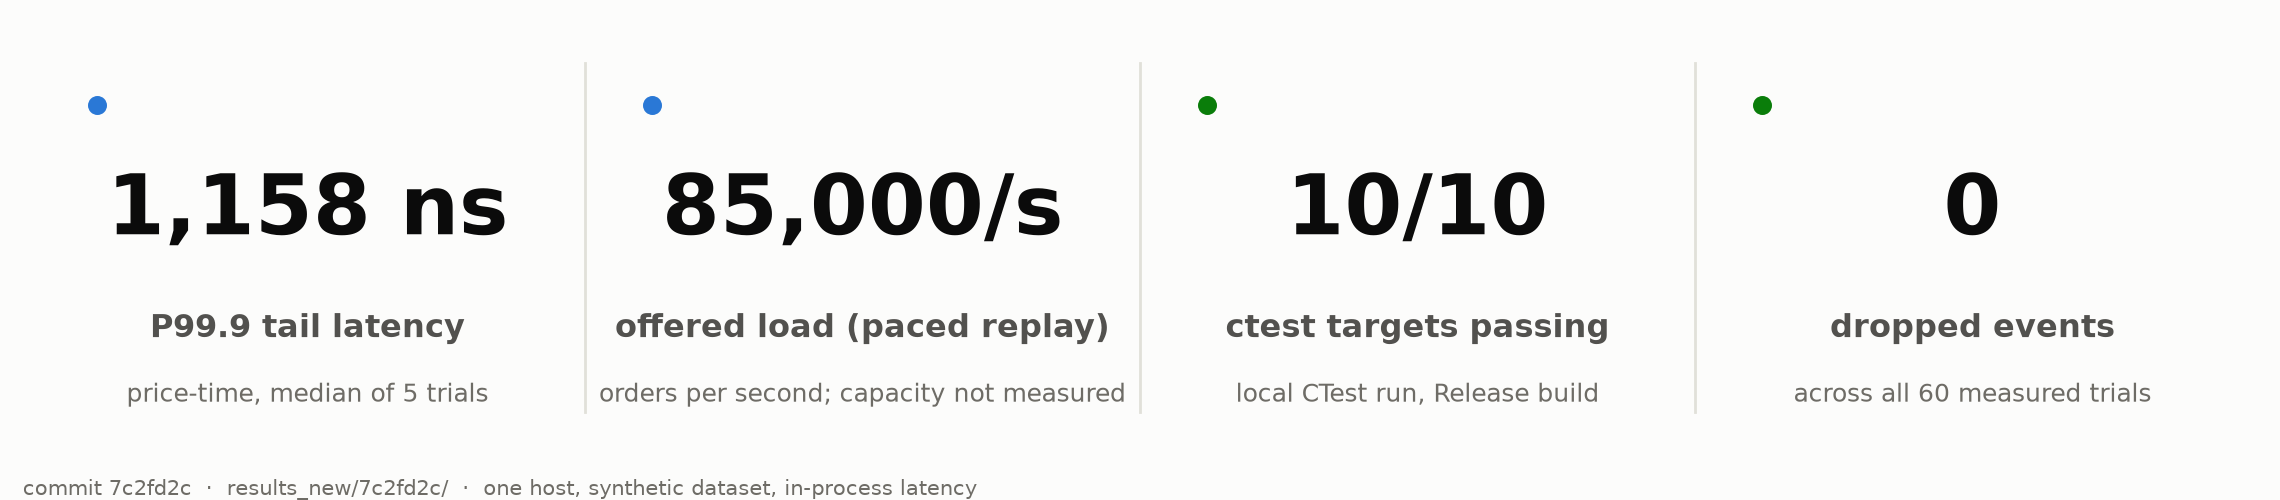
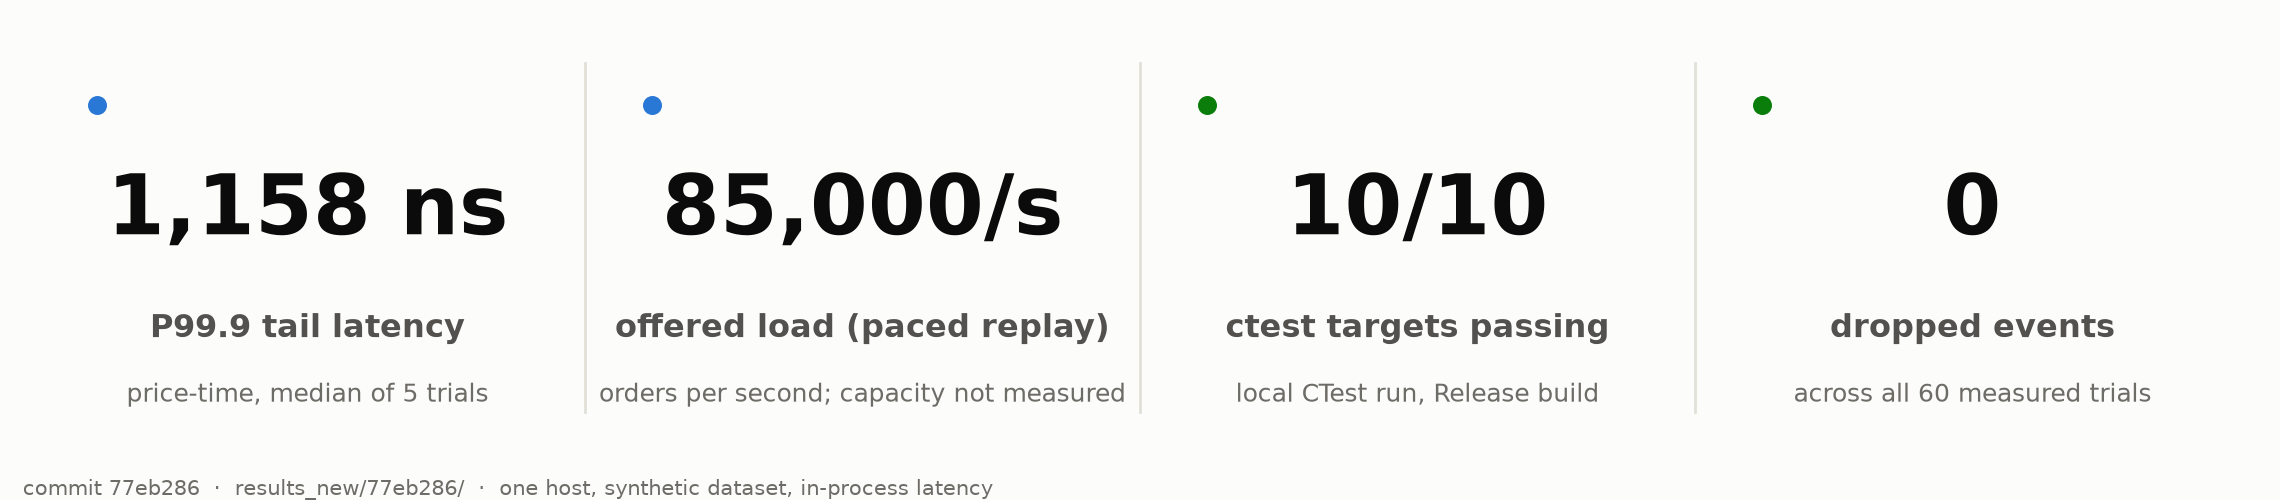
feat: regenerate the charts for the payload-matched ablation run
All five charts now come from the run of record on the fully tuned cluster. The
ablation chart states that the unpinned price-time verdict rests on a 4 ns
separation margin and a 1,161 to 69,960 ns range, and that the row flips between
runs. The hero tile test count comes from a live ctest log.

Changed region(s): [[0.0311, 0.96, 0.436, 1.0]]

diff --git a/charts/generate_charts.py b/charts/generate_charts.py
@@ -3,7 +3,7 @@
 
 Usage:
     python3 charts/generate_charts.py \
-        --results-dir results_new/7c2fd2c \
+        --results-dir results_new/77eb286 \
         --baseline-dir results/98a597b \
         --ctest-log build/Testing/Temporary/LastTest.log
 
@@ -30,7 +30,7 @@ import matplotlib.ticker as mticker
 from matplotlib.patches import Polygon
 
 REPO_ROOT = Path(__file__).resolve().parent.parent
-DEFAULT_RESULTS_DIR = REPO_ROOT / "results_new" / "7c2fd2c"
+DEFAULT_RESULTS_DIR = REPO_ROOT / "results_new" / "77eb286"
 DEFAULT_BASELINE_DIR = REPO_ROOT / "results" / "98a597b"
 DEFAULT_OUT_DIR = Path(__file__).resolve().parent
 
@@ -200,13 +200,28 @@ def trial_range_text(trials: list) -> str:
     return f"per-trial range {fmt(min(trials))}\u2013{fmt(max(trials))} ns"
 
 
-def ablated_label(verdict: str, ablated: float, delta_x: float, trials: list) -> tuple:
-    """Two bar-label lines for the ablated arm; 'x worse' is only claimed for PROVEN."""
+def ablated_label(
+    verdict: str, ablated: float, delta_x: float, trials: list, baseline_trials: list | None = None
+) -> tuple:
+    """Bar-label lines for the ablated arm; 'x worse' is only claimed for PROVEN.
+
+    A PROVEN arm whose per-trial values span more than 10x (a load-dependent tail) gets a
+    third line stating the separation margin (fastest ablated trial minus slowest baseline
+    trial) and that such a row can flip between runs.
+    """
     verdict = normalize_verdict(verdict)
     value = f"{fmt(ablated)} ns"
     spread = trial_range_text(trials)
     if verdict == "PROVEN":
-        return f"{value}  ({delta_x:.2f}x worse)", spread
+        lines = (f"{value}  ({delta_x:.2f}x worse)", spread)
+        if baseline_trials and max(trials) > 10 * min(trials):
+            margin = min(trials) - max(baseline_trials)
+            note = (
+                f"tail highly load dependent; separation margin only {fmt(margin)} ns; "
+                "this row flips between runs"
+            )
+            return lines + tuple(textwrap.wrap(note, 45))
+        return lines
     if verdict == "NO_MEASURABLE_EFFECT":
         return f"{value}  (no measurable effect)", spread
     if verdict == "ABLATED_FASTER":
@@ -382,7 +397,7 @@ def chart_ablation_impact(results_dir: Path, commit: str, out_path: Path):
         f"is a separate run of the same binary ({fmt(median_percentiles(results_dir, 'price_time')['P99.9'])} ns).",
         "Verdicts use per-trial P99.9, 5 trials per arm. PROVEN: median >= 110% of baseline and every ablated trial "
         "above every baseline trial.",
-        "NO_MEASURABLE_EFFECT: median within 10% of baseline (not detected, not proven equal).",
+        "NO_MEASURABLE_EFFECT: median within 10% of baseline (not detected, not proven equal). ABLATED_FASTER: the mirror of PROVEN.",
         "Pinning row: stock unpinned threads on a busy desktop vs isolated pinned cores. It measures core isolation plus "
         "placement luck, not pinning alone.",
         "Pro-rata, same suite: " + pro_rata_summary(results_dir),
@@ -420,14 +435,17 @@ def chart_ablation_impact(results_dir: Path, commit: str, out_path: Path):
             color=INK_SECONDARY,
             linespacing=1.5,
         )
-        line1, line2 = ablated_label(verdict, ablated, float(r["p99_9_delta_x"]), trials)
+        label_lines = list(
+            ablated_label(verdict, ablated, float(r["p99_9_delta_x"]), trials, baseline_trials)
+        )
         if ablated > cap:
-            line1 = f"{line1}  [bar cut, axis break]"
+            label_lines[0] = f"{label_lines[0]}  [bar cut, axis break]"
         ax.text(
             min(ablated, cap) + gap,
-            y_abl,
-            f"{line1}\n{line2}",
-            va="center",
+            y_abl if len(label_lines) <= 2 else y_abl - bar_h / 2,
+            "\n".join(label_lines),
+            # a long label hangs from the top of its bar so it cannot reach the baseline label
+            va="center" if len(label_lines) <= 2 else "top",
             ha="left",
             fontsize=9.5,
             color=INK_SECONDARY,
@@ -894,7 +912,7 @@ def main():
         "--results-dir",
         type=Path,
         default=DEFAULT_RESULTS_DIR,
-        help="results directory of the run of record (default: results_new/7c2fd2c)",
+        help="results directory of the run of record (default: results_new/77eb286)",
     )
     parser.add_argument(
         "--baseline-dir",

diff --git a/tests/test_chart_reporting.py b/tests/test_chart_reporting.py
@@ -102,9 +102,10 @@ class ChartReportingTests(unittest.TestCase):
             charts.normalize_verdict("NOT_PROVEN")
 
     def test_x_worse_is_claimed_only_for_proven(self):
-        trials = [1219.0, 1317.0, 1452.0, 1615.0, 21293.0]
-        proven = charts.ablated_label("PROVEN", 6589, 5.63, trials)
-        self.assertIn("5.63x worse", proven[0])
+        trials = [1219.0, 1317.0, 1452.0, 1615.0, 2293.0]
+        proven = charts.ablated_label("PROVEN", 4165, 3.63, trials)
+        self.assertIn("3.63x worse", proven[0])
+        self.assertEqual(len(proven), 2)
         for verdict in ("INCONCLUSIVE", "NO_MEASURABLE_EFFECT", "ABLATED_FASTER"):
             lines = " ".join(charts.ablated_label(verdict, 1452, 1.24, trials))
             self.assertNotIn("worse", lines)
@@ -114,7 +115,32 @@ class ChartReportingTests(unittest.TestCase):
         self.assertIn("faster", charts.ablated_label("ABLATED_FASTER", 1, 0.8, trials)[0])
         inconclusive = charts.ablated_label("INCONCLUSIVE", 1452, 1.24, trials)
         self.assertIn("highly load dependent", inconclusive[1])
-        self.assertIn("1,219\u201321,293", inconclusive[1])
+        self.assertIn("1,219\u20132,293", inconclusive[1])
+
+    def test_fragile_proven_label_states_margin_and_load_dependence(self):
+        baseline = [1157.0, 1129.0, 1143.0, 1148.0, 1155.0]
+        trials = [52559.0, 69960.0, 2435.0, 1682.0, 1161.0]
+        lines = charts.ablated_label("PROVEN", 2435, 2.12, trials, baseline)
+        text = " ".join(lines)
+        self.assertIn("2.12x worse", lines[0])
+        self.assertIn("1,161\u201369,960", lines[1])
+        self.assertIn("highly load dependent", text)
+        self.assertIn("separation margin only 4 ns", text)
+        self.assertIn("flips between runs", text)
+
+    def test_committed_ablation_arms_render_with_expected_verdicts(self):
+        results = charts.DEFAULT_RESULTS_DIR
+        if not results.is_dir():
+            self.skipTest("run-of-record results are not present locally")
+        rows = [
+            r
+            for r in charts.read_csv_rows(results / "ablation_summary.csv")
+            if r["matching_mode"] == "price_time"
+        ]
+        verdicts = {r["design_decision"]: charts.normalize_verdict(r["verdict"]) for r in rows}
+        self.assertEqual(verdicts["Cache-line hot/cold split"], "NO_MEASURABLE_EFFECT")
+        self.assertEqual(verdicts["Lock-free SPSC queue"], "PROVEN")
+        self.assertIn("ABLATED_FASTER", charts.pro_rata_summary(results))
 
     def test_ablation_rows_cover_the_four_decisions(self):
         self.assertEqual(len(charts.DECISIONS), 4)
@@ -122,11 +148,11 @@ class ChartReportingTests(unittest.TestCase):
         self.assertIn("Core isolation + pinning vs unpinned (shared desktop)", titles)
 
     def test_clip_cap_only_clips_outliers(self):
-        self.assertEqual(charts.clip_cap([1170, 6589, 4427]), 6589)
+        self.assertEqual(charts.clip_cap([1148, 4165, 2435]), 4165)
         self.assertEqual(charts.clip_cap([1000, 1200, 30000]), 1500)
 
     def test_percentage_change_uses_signed_rounding(self):
-        self.assertEqual(charts.percentage_change(485, 321), "\u221234%")
+        self.assertEqual(charts.percentage_change(485, 320), "\u221234%")
         self.assertEqual(charts.percentage_change(100, 125), "+25%")
         self.assertEqual(charts.percentage_change(100, 100), "0%")
 
